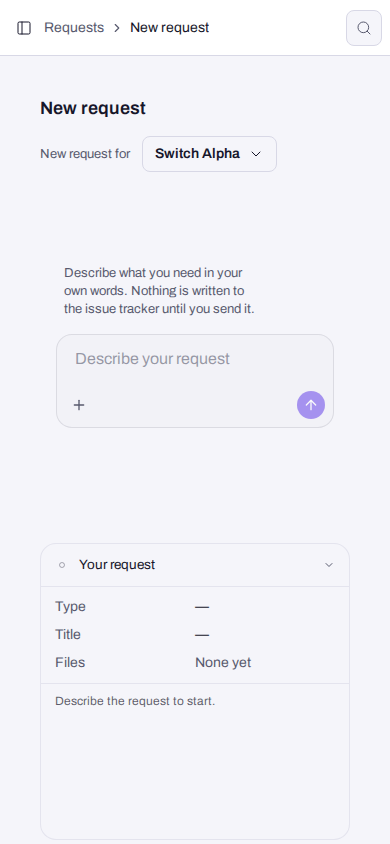
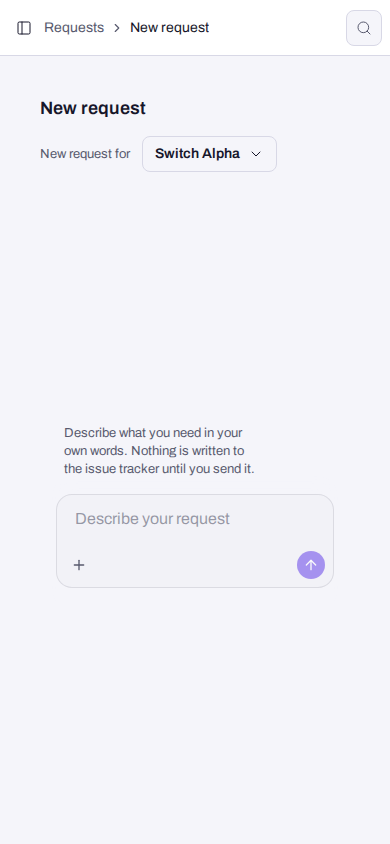
fix(requests): Page-flow thread, one primary action, state dot in rows

diff --git a/apps/server/src/app/(app)/components/request/NewRequest.tsx b/apps/server/src/app/(app)/components/request/NewRequest.tsx
@@ -19,6 +19,14 @@ import { RequestQuestions } from './RequestQuestions'
 import { useRequestSession, type Initial } from './useRequestSession'
 import type { DraftView } from '../../../../core/requests/view'
 
+const COLUMN = [
+  'flex min-h-[calc(100dvh-12rem)] min-w-0 flex-col',
+  '[&_.aui-thread-root]:h-auto [&_.aui-thread-root]:flex-1',
+  '[&_[data-slot$=thread-viewport]]:overflow-visible',
+  '[&_.aui-thread-viewport-footer]:bottom-0',
+  '[&_.aui-thread-viewport-footer]:shadow-[0_-14px_14px_-6px_var(--color-background)]',
+].join(' ')
+
 type Props = {
   workspace: number
   products: { id: number; name: string }[]
@@ -89,9 +97,9 @@ export function NewRequest({ workspace, products, product, initial }: Props) {
   return (
     <>
       <ProductHeader products={products} product={chosen} locked={session.started} onChange={change} />
-      <div className="grid h-[calc(100dvh-12rem)] min-h-0 gap-6 lg:grid-cols-[1fr_24rem]">
+      <div className="grid items-start gap-6 pb-8 lg:grid-cols-[minmax(0,1fr)_24rem]">
         <AssistantRuntimeProvider runtime={session.runtime}>
-          <div className="grid min-h-0 grid-rows-[minmax(0,1fr)_auto]">
+          <div className={COLUMN}>
             <Thread
               autoFocus={false}
               components={{
@@ -129,7 +137,9 @@ export function NewRequest({ workspace, products, product, initial }: Props) {
               }}
             />
           </div>
-          <RequestCard draft={draft} busy={busy} act={session.act} />
+          <div className="lg:sticky lg:top-4">
+            <RequestCard draft={draft} busy={busy} act={session.act} />
+          </div>
         </AssistantRuntimeProvider>
       </div>
     </>

diff --git a/apps/server/src/app/(app)/components/request/RequestRows.tsx b/apps/server/src/app/(app)/components/request/RequestRows.tsx
@@ -9,7 +9,7 @@ import { RequestsMore, type MoreRequests } from './RequestsMore'
 const TYPES: Record<string, string> = { bug: 'Bug', feature: 'Feature', change: 'Change', chore: 'Chore' }
 const MARK_TONE = {
   neutral: 'text-muted-foreground',
-  accent: 'text-muted-foreground',
+  accent: 'text-primary',
   ok: 'text-ok',
   warn: 'text-destructive',
 }
@@ -23,11 +23,9 @@ export function RequestRow({ item, staff }: { item: RequestListRow; staff: boole
   const { row, status, mine } = item
   return (
     <div role="row" className={cn(GRID, 'border-t border-border hover:bg-secondary')}>
-      <span
-        role="cell"
-        data-mark={status.mark}
-        className={cn('text-center font-semibold after:content-[attr(data-mark)]', MARK_TONE[status.tone], WIDE)}
-      />
+      <span role="cell" className={cn('flex justify-center', MARK_TONE[status.tone], WIDE)}>
+        <span aria-hidden className="size-2 rounded-full bg-current" />
+      </span>
       <span role="cell" className="mono text-muted-foreground">
         #{row.number}
       </span>

diff --git a/apps/server/e2e/requests-page.spec.ts b/apps/server/e2e/requests-page.spec.ts
@@ -27,7 +27,6 @@ test('Requests lists mark, number, title, type, creator, status, created and las
   await expect(page.getByRole('button', { name: 'Product' })).toContainText('Requests App')
   await expect(page.getByRole('columnheader')).toHaveText(['State', '#', 'Request', 'Status', 'Created', 'Last change'])
   const asked = rowOf(page, 'The factory asked me a question')
-  await expect(asked.getByRole('cell').first()).toHaveAttribute('data-mark', '!')
   await expect(asked.getByRole('cell').nth(1)).toHaveText(/^#\d+$/)
   await expect(asked.getByRole('link')).toHaveAttribute('href', /^\/requests\/\d+$/)
   await expect(asked).toContainText('Bug · You')

diff --git a/apps/server/src/app/(app)/components/request/RequestCard.tsx b/apps/server/src/app/(app)/components/request/RequestCard.tsx
@@ -58,7 +58,12 @@ function Actions({ draft, busy, act }: { draft: DraftView; busy: boolean; act: (
           Close the question
         </Button>
       ) : (
-        <Button type="button" disabled={busy || !draft.complete} onClick={() => act({ action: 'send' })}>
+        <Button
+          type="button"
+          variant={draft.questions.length > 0 ? 'outline' : 'default'}
+          disabled={busy || !draft.complete}
+          onClick={() => act({ action: 'send' })}
+        >
           Send request
         </Button>
       )}
